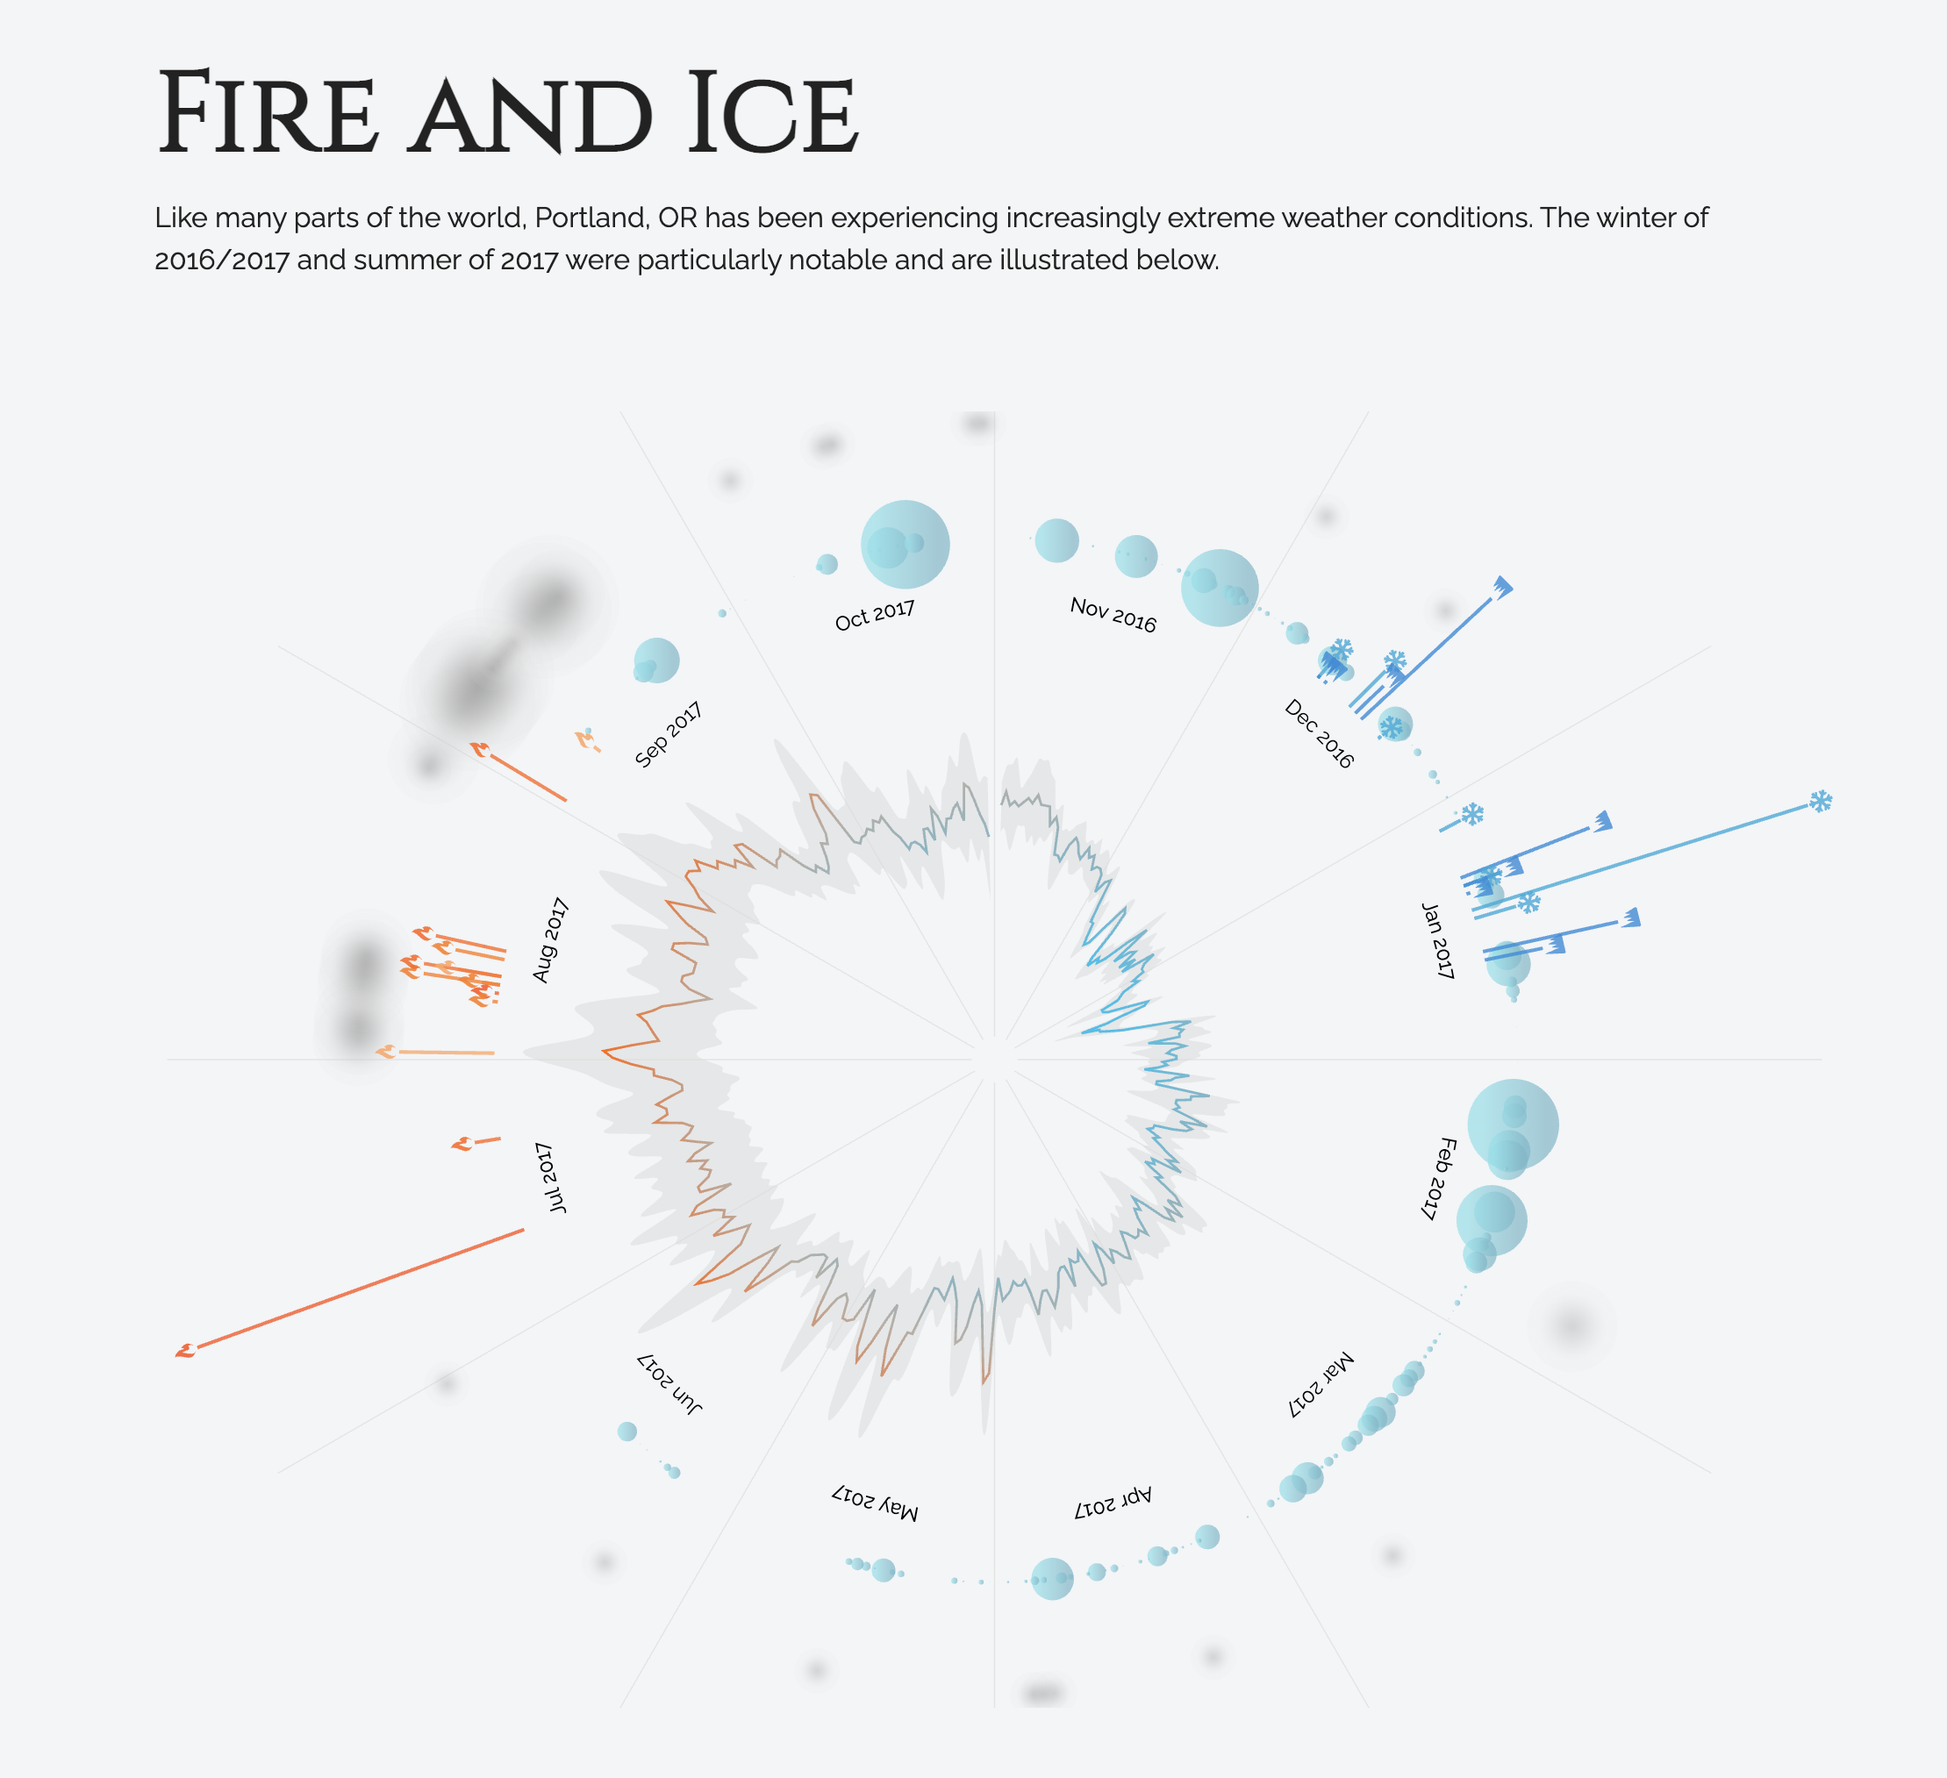
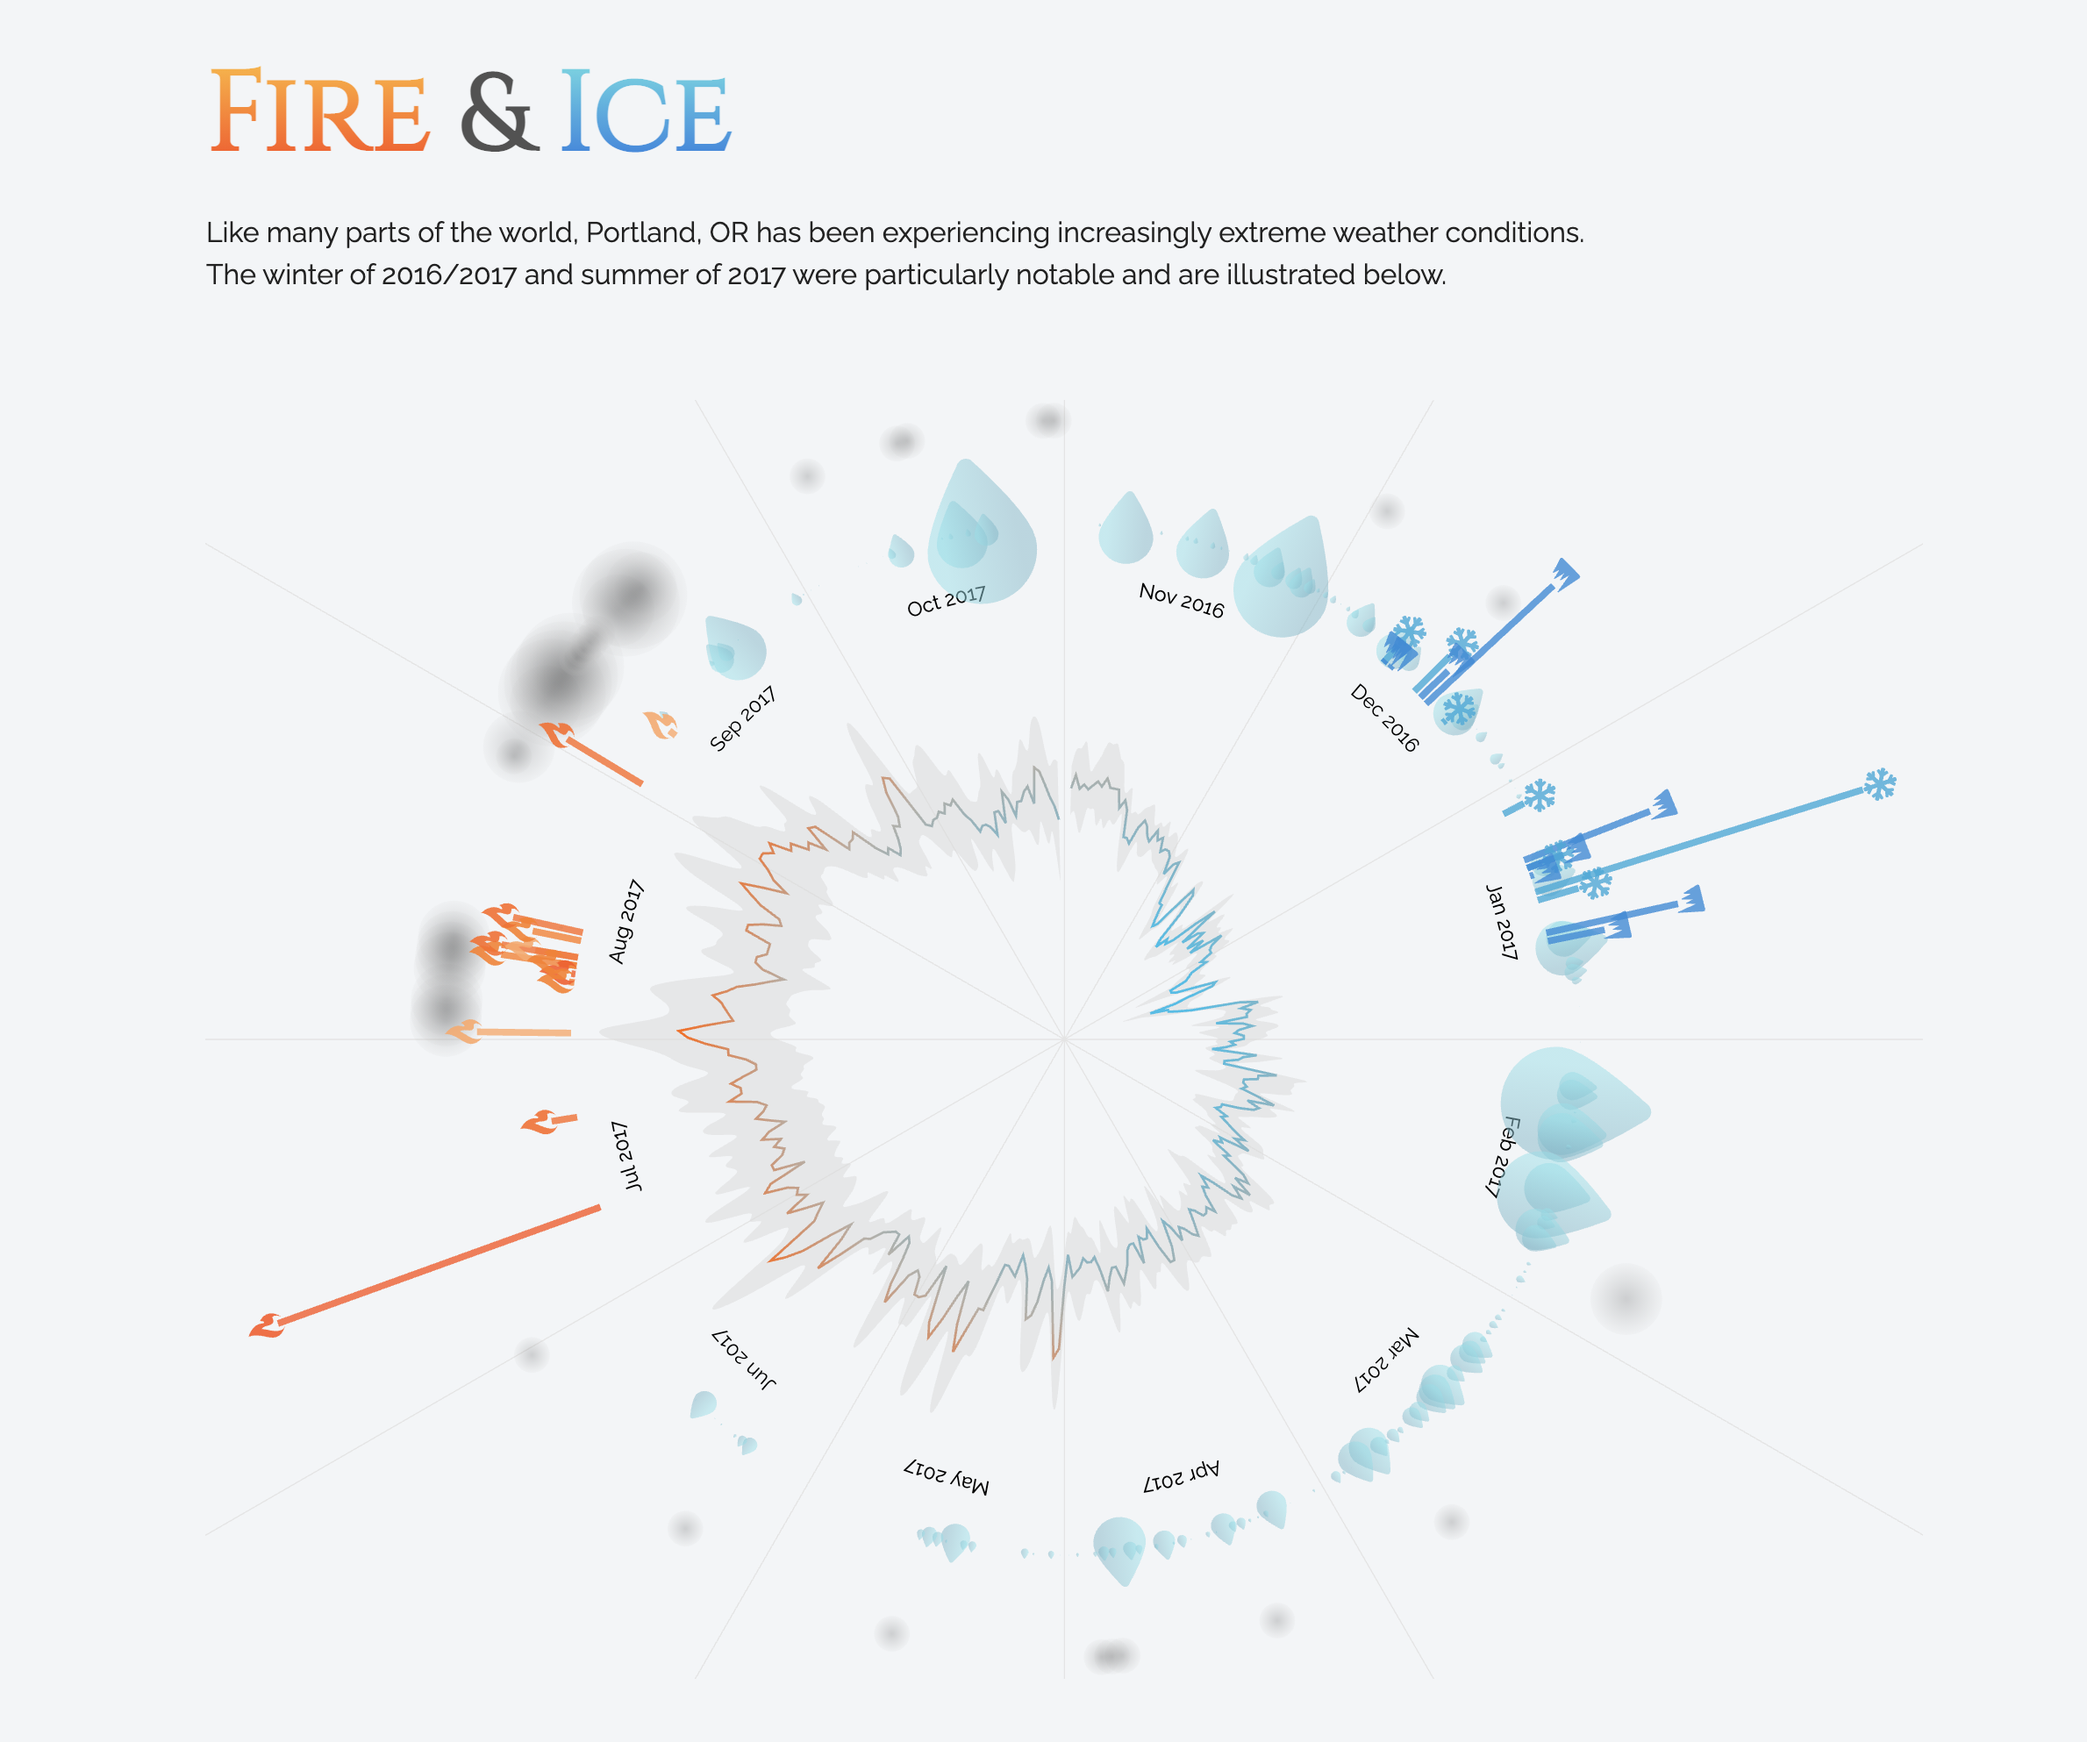
fire ice: minor updates to weather data, updating lines and annotations to scale with the svg, adding text wrap functions to animation js file, main: adding gif to detail view of studies dashboard, adding cropped images for baseline assessment and org chart portfolio cards, adding more images to bas

diff --git a/index.html b/index.html
@@ -142,7 +142,7 @@
       <div class="section-title">
         <h2>Portfolio</h2>
         <p>A selection of my recent projects - a mix of work and personal ventures.  Shown here are
-          static images of the work - the original versions are interactive and allow
+          static images of the work - the original versions are generally interactive and allow
           users to further explore the data.  Links are provided to the interactive versions of
           my personal projects. </p>
       </div>
@@ -169,7 +169,7 @@
               <p class="desc">What has the Nike Sport Research Lab been up to this quarter?</p>
               <p class="tech">Tableau, MySQL</p>
               <div class="portfolio-links">
-                <a href="images/workSampleStudies.png" data-gallery="portfolioGallery" class="portfolio-lightbox" title="NSRL Studies Dashboard"><i class="bx bx-plus"></i></a>
+                <a href="images/NSRLStudies5.gif" data-gallery="portfolioGallery" class="portfolio-lightbox" title="NSRL Studies Dashboard"><i class="bx bx-plus"></i></a>
               </div>
             </div>
           </div>
@@ -191,7 +191,7 @@
 
         <!-- <div class="col-lg-4 col-md-6 portfolio-item filter-d3 filter-personal">
           <div class="portfolio-wrap">
-            <img src="images/workSampleOrgChart.png" class="img-fluid" alt="">
+            <img src="images/workSampleOrgChartCropped.png" class="img-fluid" alt="">
             <div class="portfolio-info">
               <h4>Org Chart Explorer</h4>
               <p class="desc">A guided search tool for finding people and the teams
@@ -298,14 +298,14 @@
 
         <div class="col-lg-4 col-md-6 portfolio-item filter-work filter-tableau">
           <div class="portfolio-wrap">
-            <img src="images/workSampleFoot.png" class="img-fluid" alt="">
+            <img src="images/workSampleFootCropped.png" class="img-fluid" alt="">
             <div class="portfolio-info">
               <h4>Baseline Assessment</h4>
               <p class="desc">A customized immediate-turnaround report for athletes
                 visiting the Sport Research Lab at Nike's WHQ</p>
               <p class="tech">Tableau</p>
               <div class="portfolio-links">
-                <a href="images/workSampleFoot.png" data-gallery="portfolioGallery" class="portfolio-lightbox" title="Baseline Assessment - a customized immediate-turnaround report for athletes visiting the Sport Research Lab"><i class="bx bx-plus"></i></a>
+                <a href="images/workSampleBaselineSQ.png" data-gallery="portfolioGallery" class="portfolio-lightbox" title="Baseline Assessment - a customized immediate-turnaround report for athletes visiting the Sport Research Lab"><i class="bx bx-plus"></i></a>
               </div>
             </div>
           </div>
@@ -372,9 +372,7 @@
           <h1 class="quote">“</h1>
           <h4 class="testimonial-text">She has earned an undisputed respect amongst
             peers and leaders alike with her clear thinking, strong problem solving
-            skills and dedication to excellence.  Heidi stretched herself to take
-            on additional responsibilities this year and did so with admirable
-            determination to succeed.</h4>
+            skills and dedication to excellence.</h4>
           <em class="testimonial-author">-Kristi Wilson</em>
         </div>
         <div class="carousel-item container-fluid">
@@ -414,19 +412,25 @@
         </div>
         <div class="carousel-item container-fluid">
           <h1 class="quote">“</h1>
+          <h4 class="testimonial-text">Heidi is a terrific asset to the team.  Her
+            problem solving and analytic skills are unmatched.</h4>
+          <em class="testimonial-author">-Angela Eastburn</em>
+        </div>
+        <div class="carousel-item container-fluid">
+          <h1 class="quote">“</h1>
           <h4 class="testimonial-text">Heidi has not simply gathered input
             from researchers and relayed them to the development team.  Rather,
             she has sought how to meet the needs of the users, even unanticipated,
             unarticulated needs.</h4>
           <em class="testimonial-author">-Anonymous (peer feedback at Nike)</em>
         </div>
-        <!-- <div class="carousel-item container-fluid">
+        <div class="carousel-item container-fluid">
           <h1 class="quote">“</h1>
           <h4 class="testimonial-text">Heidi can be trusted to deliver and collaborates
             easily.  People are pleasantly surprised when they see what she can do,
             and she makes it look easy when it often isn't.</h4>
           <em class="testimonial-author">-Jennifer Smith</em>
-        </div> -->
+        </div>
         <div class="carousel-item container-fluid">
           <h1 class="quote">“</h1>
           <h4 class="testimonial-text">Heidi is a true unicorn. She’s able to go deep

diff --git a/fireandice/main.js b/fireandice/main.js
@@ -15,6 +15,8 @@ const fireIconScale = 0.025;
 const iceScale = 86;
 const iceIconScale = 0.012;
 const snowIconScale = 0.015;
+const lineWidth = 1.5;
+const annotSize = 0.25;
 
 
 // this function makes our svg responsive to the size of the container/screen!
@@ -91,18 +93,10 @@ function wrapLabel(label, maxWidth) {
   });
   return completedLines.filter(line => line !== "");
 }
-const label = wrapLabel("supercalifragilisticexpialidocious", 20);
-console.log(label);
-// becomes ["supe-", "rcali-", "frag-", "ilistic-", "expi-", "alido-", "ciou-", "s"]
-// const wrappedText = label.map((word, index) => (
-//   <tspan x={0} dy={index === 0 ? 0 : 14}>
-//     {word}
-//   </tspan>
-// ));
 
 
 
-// define a circular svg path
+// define a circular svg (arc) path for month labels
 function circPath(radiusX,i,n) {
   return `M${radiusX*Math.cos(2*Math.PI*(i-3)/n)},${radiusX*Math.sin(2*Math.PI*(i-3)/n)} A ${radiusX}, ${radiusX}, 0, 0,1, ${radiusX*Math.cos(2*Math.PI*(i-2)/n)},${radiusX*Math.sin(2*Math.PI*(i-2)/n)}`
 }
@@ -317,6 +311,7 @@ function redraw(){  d3.csv("PDXWeatherDaily20162017.csv").then( function(flatDat
     .data(flatData).enter()
     .filter(d => d.DailySnowfallWE !== "")
     .append("line")
+    .attr("stroke-width",yScale(lineWidth))
     .attr("class", "snow" )
     .attr("x1", d => yScale(lineRad)*Math.cos(xScaleReal(parseTime(d.DATE))))
     .attr("y1", d => yScale(lineRad)*Math.sin(xScaleReal(parseTime(d.DATE))))
@@ -328,6 +323,7 @@ function redraw(){  d3.csv("PDXWeatherDaily20162017.csv").then( function(flatDat
     .data(flatData).enter()
     .filter(d => d.IceInches !== "")
     .append("line")
+    .attr("stroke-width",yScale(lineWidth))
     .attr("class", "ice" )
     .attr("x1", d => yScale(lineRad)*Math.cos(xScaleReal(parseTime(d.DATE))))
     .attr("y1", d => yScale(lineRad)*Math.sin(xScaleReal(parseTime(d.DATE))))
@@ -362,6 +358,7 @@ d3.csv("PDXWildfires2017.csv").then( function(fireData) {
   g.selectAll("line.wildfire")
     .data(fireData).enter()
     .append("line")
+    .attr("stroke-width",yScale(lineWidth))
     .attr("class",function(d) {
       if (d.DaysUntilContainment <= 31) {return "wildfire level1"}
       else if (d.DaysUntilContainment <= 70) {return "wildfire level2"}
@@ -403,6 +400,7 @@ const annotSnowpocSpans = annotSnowpoc.append("text")
 annotSnowpocText.forEach(function(string) {
   annotSnowpocSpans.append('svg:tspan')
   .text(string)
+  .attr("font-size",yScale(annotSize).toString()+"rem")
   .attr('x', yScale(110))
   .attr('dy', yScale(5))
 });
@@ -426,6 +424,7 @@ const annotFireGorgeSpans = annotFireGorge.append("text")
 annotFireGorgeText.forEach(function(string) {
   annotFireGorgeSpans.append('svg:tspan')
   .text(string)
+  .attr("font-size",yScale(annotSize).toString()+"rem")
   .attr('x', yScale(-191))
   .attr('dy', yScale(5))
 });

diff --git a/orgchart/anim.js b/orgchart/anim.js
@@ -28,6 +28,59 @@ function responsivefy(thisSvg,maxWidth=4000) {
   }
 }
 
+// define some functions for creating "text wrap" for svg text elements
+// functions from Carys Mills
+// https://medium.com/@CarysMills/wrapping-svg-text-without-svg-2-ecbfb58f7ba4
+function getTextWidth(text, font = "500 12px sans-serif") {
+  const canvas = document.createElement("canvas");
+  const context = canvas.getContext("2d");
+  context.font = font;
+  return context.measureText(text).width;
+}
+function breakString(word, maxWidth, hyphenCharacter='-') {
+  const characters = word.split("");
+  const lines = [];
+  let currentLine = "";
+  characters.forEach((character, index) => {
+    const nextLine = `${currentLine}${character}`;
+    const lineWidth = getTextWidth(nextLine);
+    if (lineWidth >= maxWidth) {
+      const currentCharacter = index + 1;
+      const isLastLine = characters.length === currentCharacter;
+      const hyphenatedNextLine = `${nextLine}${hyphenCharacter}`;
+      lines.push(isLastLine ? nextLine : hyphenatedNextLine);
+      currentLine = "";
+    } else {
+      currentLine = nextLine;
+    }
+  });
+  return { hyphenatedStrings: lines, remainingWord: currentLine };
+}
+function wrapLabel(label, maxWidth) {
+  const words = label.split(" ");
+  const completedLines = [];
+  let nextLine = "";
+  words.forEach((word, index) => {
+    const wordLength = getTextWidth(`${word} `);
+    const nextLineLength = getTextWidth(nextLine);
+    if (wordLength > maxWidth) {
+      const { hyphenatedStrings, remainingWord } = breakString(word, maxWidth);
+      completedLines.push(nextLine, ...hyphenatedStrings);
+      nextLine = remainingWord;
+    } else if (nextLineLength + wordLength >= maxWidth) {
+      completedLines.push(nextLine);
+      nextLine = word;
+    } else {
+      nextLine = [nextLine, word].filter(Boolean).join(" ");
+    }
+    const currentWord = index + 1;
+    const isLastWord = currentWord === words.length;
+    if (isLastWord) {
+      completedLines.push(nextLine);
+    }
+  });
+  return completedLines.filter(line => line !== "");
+}
 
 
 

diff --git a/fireandice/index.html b/fireandice/index.html
@@ -32,8 +32,8 @@
     <h1><span class="titleFire">Fire</span> <span class="titleAnd">&</span> <span class="titleIce">Ice</span></h1>
     <p>Like many parts of the world, Portland, OR has been experiencing increasingly
       extreme weather conditions.</p>
-    <p>The winter of 2016/2017 and summer of 2017 were
-      particularly notable and are illustrated below.</p>
+    <p>The winter of 2016/2017 and summer of 2017 were particularly notable and are
+      illustrated below.</p>
   </div>
 
   <div class="main radialChart">

diff --git a/fireandice/fireice-styles.css b/fireandice/fireice-styles.css
@@ -120,7 +120,6 @@ circle.haze {
 }
 
 line.snow {
-  stroke-width: 5;
   opacity: 0.8;
   stroke: #23A9DA;
 }
@@ -131,7 +130,6 @@ path.snow {
 }
 
 line.ice {
-  stroke-width: 5;
   opacity: 0.8;
   stroke: #238ADA;
 }
@@ -142,7 +140,6 @@ path.ice {
 }
 
 line.wildfire {
-  stroke-width: 5;
   opacity: 0.8;
 }
 
